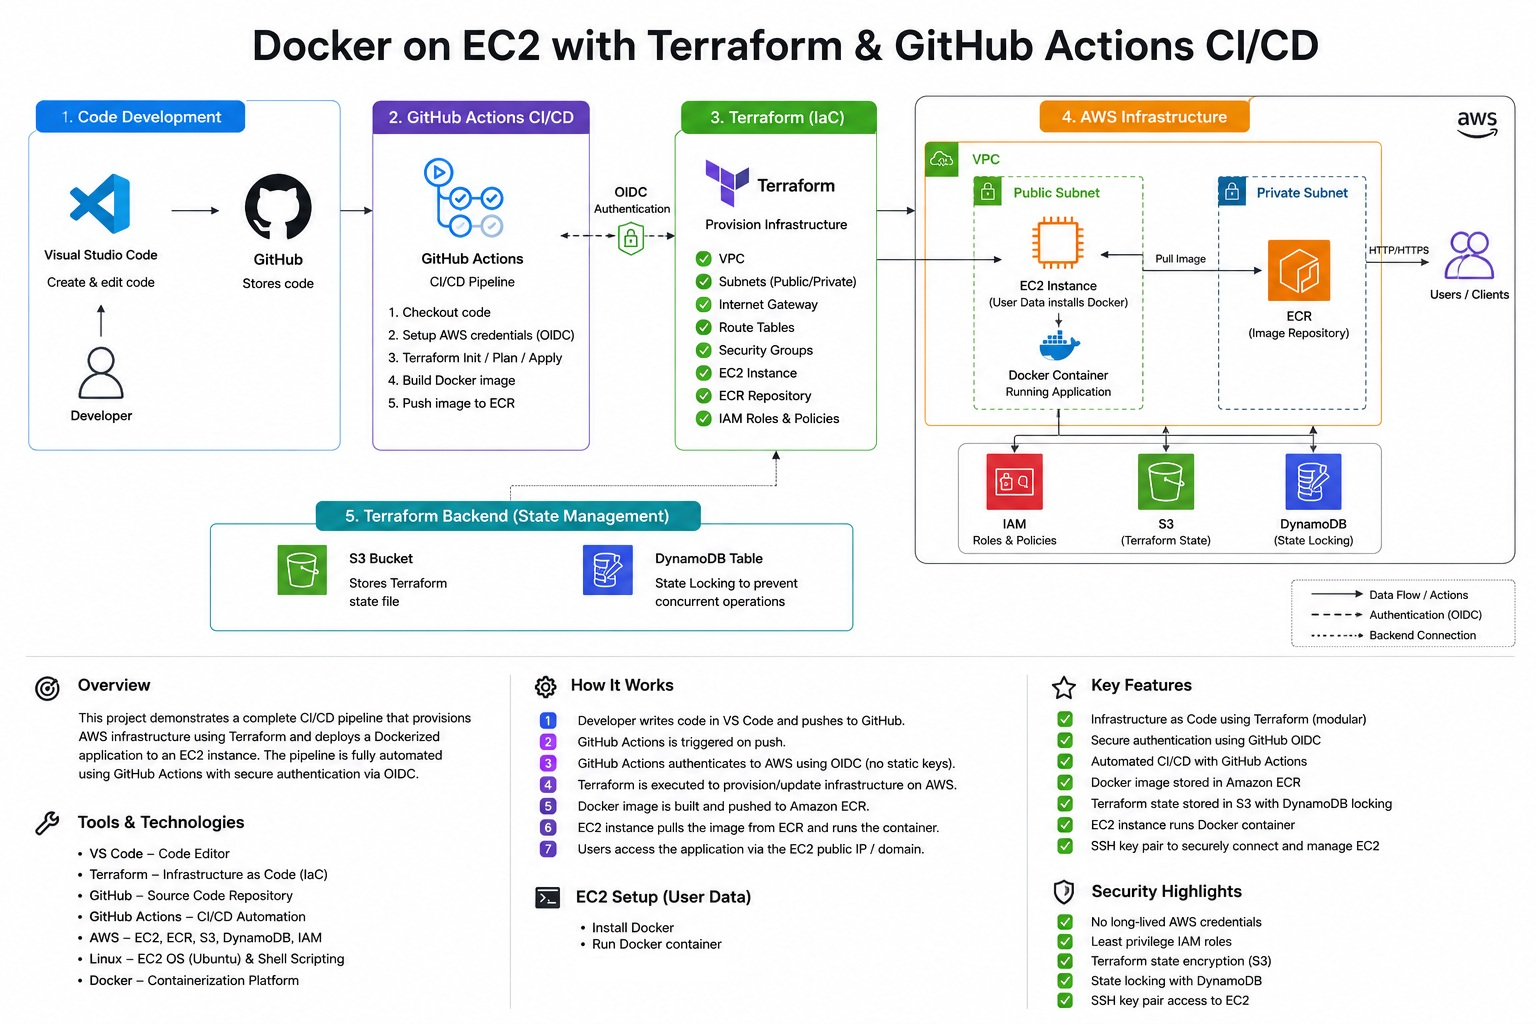
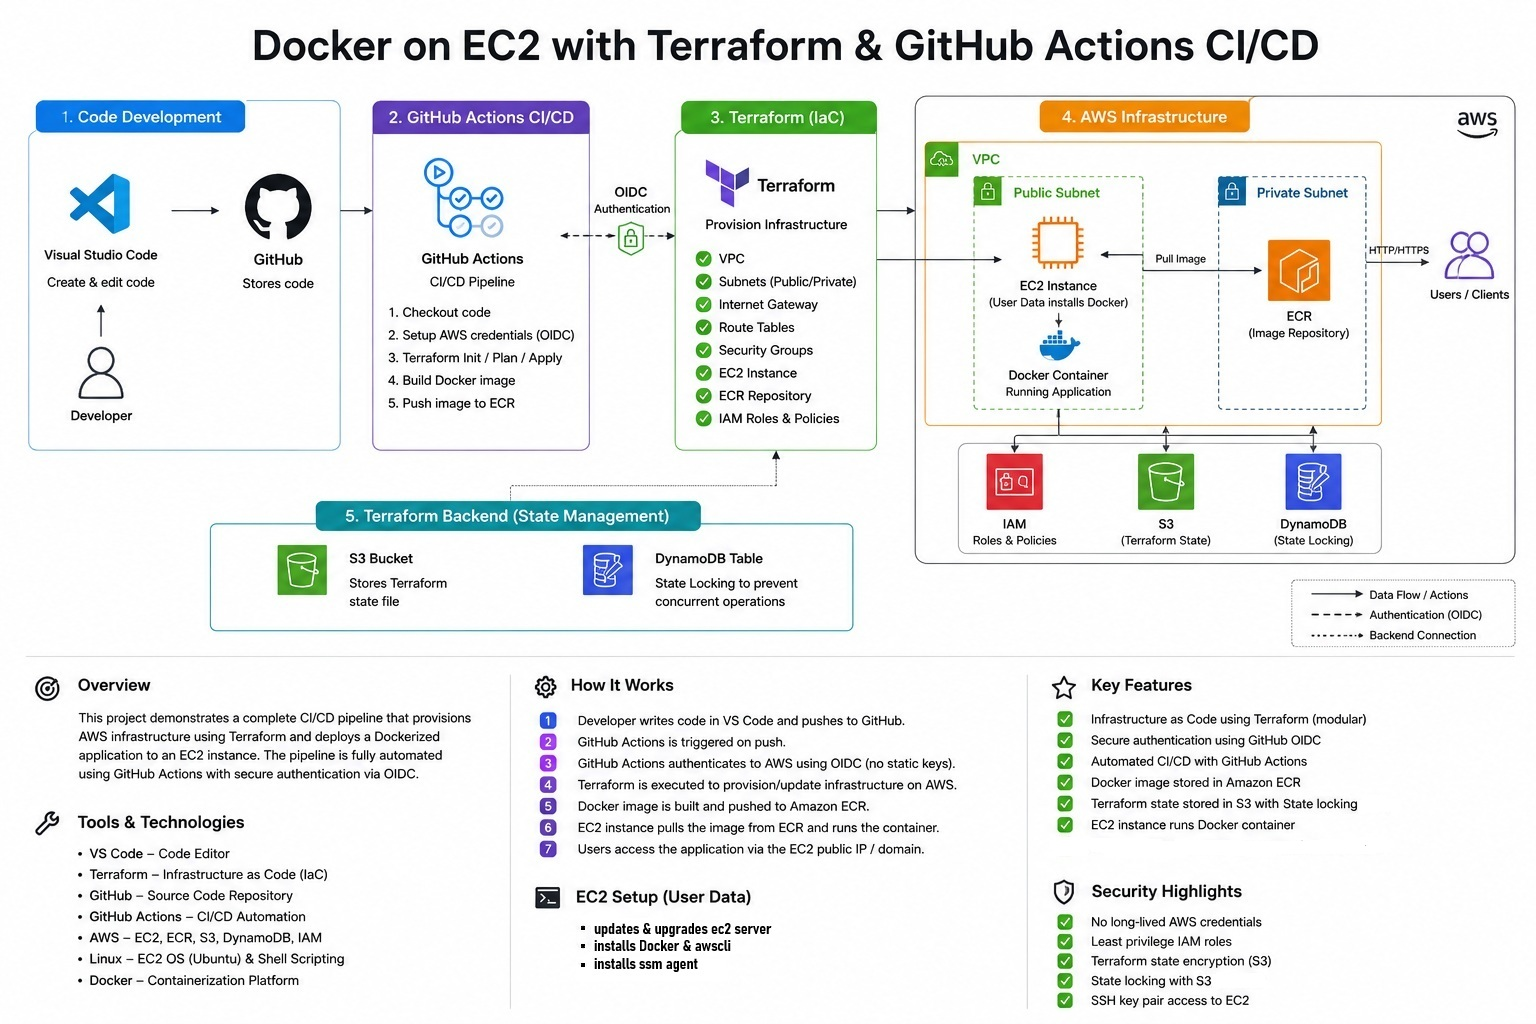
readme updated

diff --git a/README.md b/README.md
@@ -47,12 +47,33 @@ It showcases real-world DevOps practices including Infrastructure as Code, conta
 - Least-privilege IAM roles
 - Remote state stored securely in S3 with locking
 
+## How to Run It
+
+First, run the backend Terraform configuration to bootstrap the foundational AWS resources.
+
+This includes:
+- S3 bucket for Terraform remote state
+- DynamoDB table (if used for state locking)
+- GitHub OIDC Identity Provider
+- IAM role and policies for GitHub Actions authentication
+
+These resources must be created first before deploying the main infrastructure.
+
+### Step 1: Initialize backend infrastructure
+
+Navigate to the backend folder:
+
+```bash
+cd backend
+terraform init
+terraform apply
+
 Terraform File Structure:
 
 ```text
 AWS-CICD-CONTAINER-PIPELINE/
 │
-├── backend/                 # Terraform remote state bootstrap
+├── backend/                 # Terraform remote state & Github OIDC provider, role and policies bootstrap
 ├── docker-app/              # Containerized application
 ├── images/                  # Architecture diagrams
 ├── terraform/